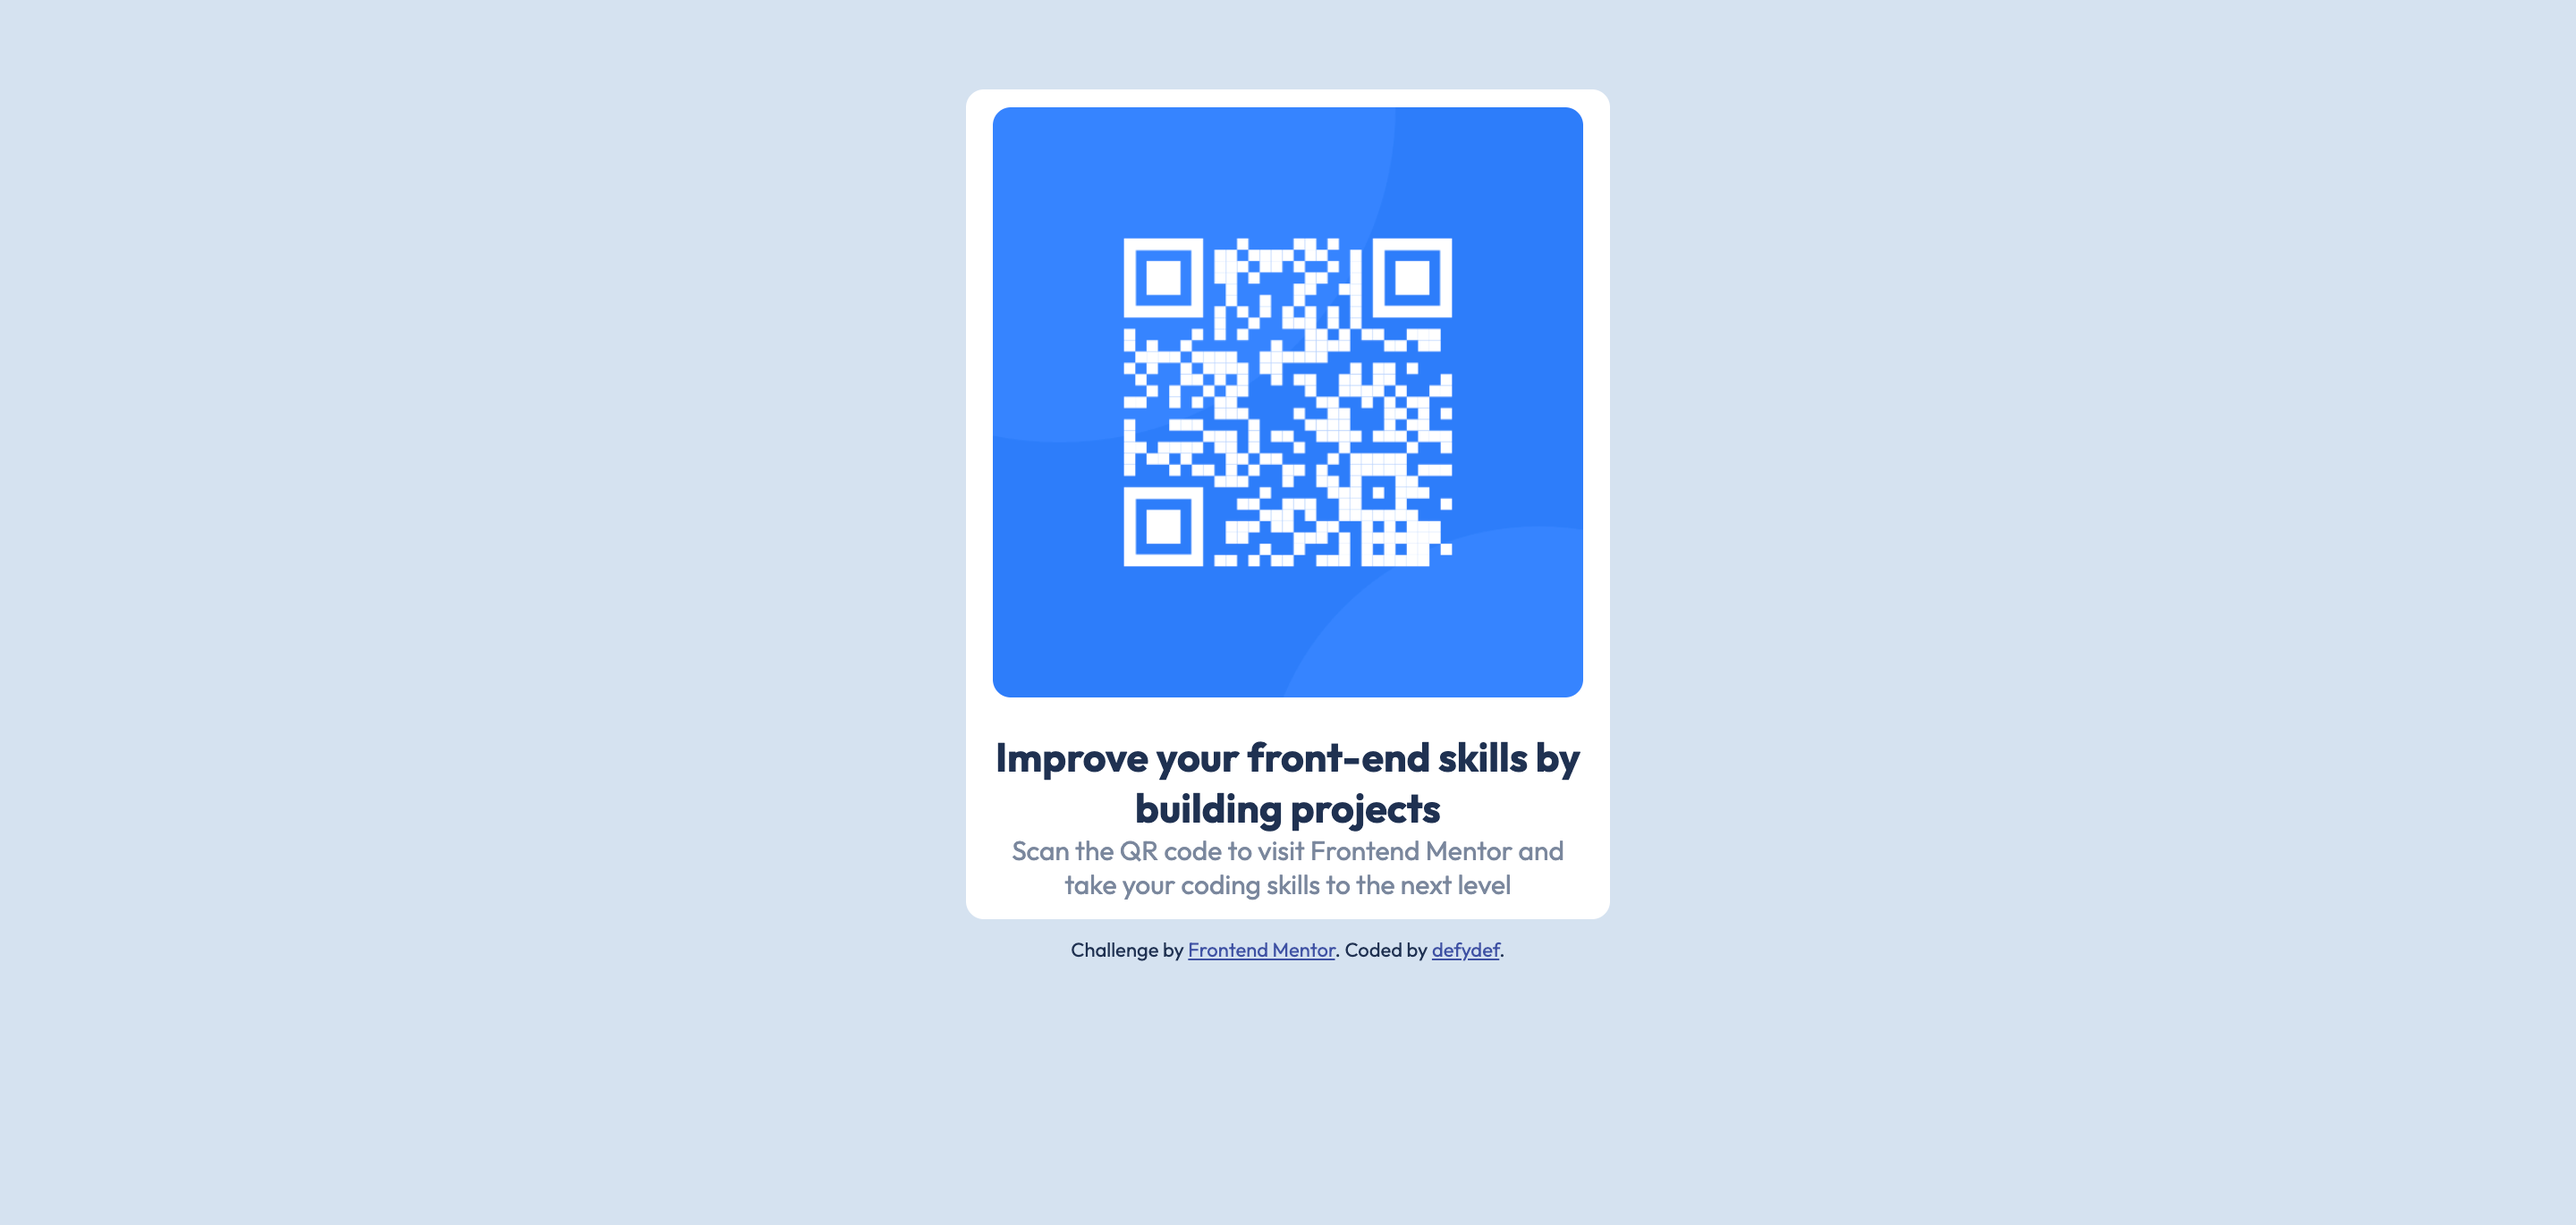
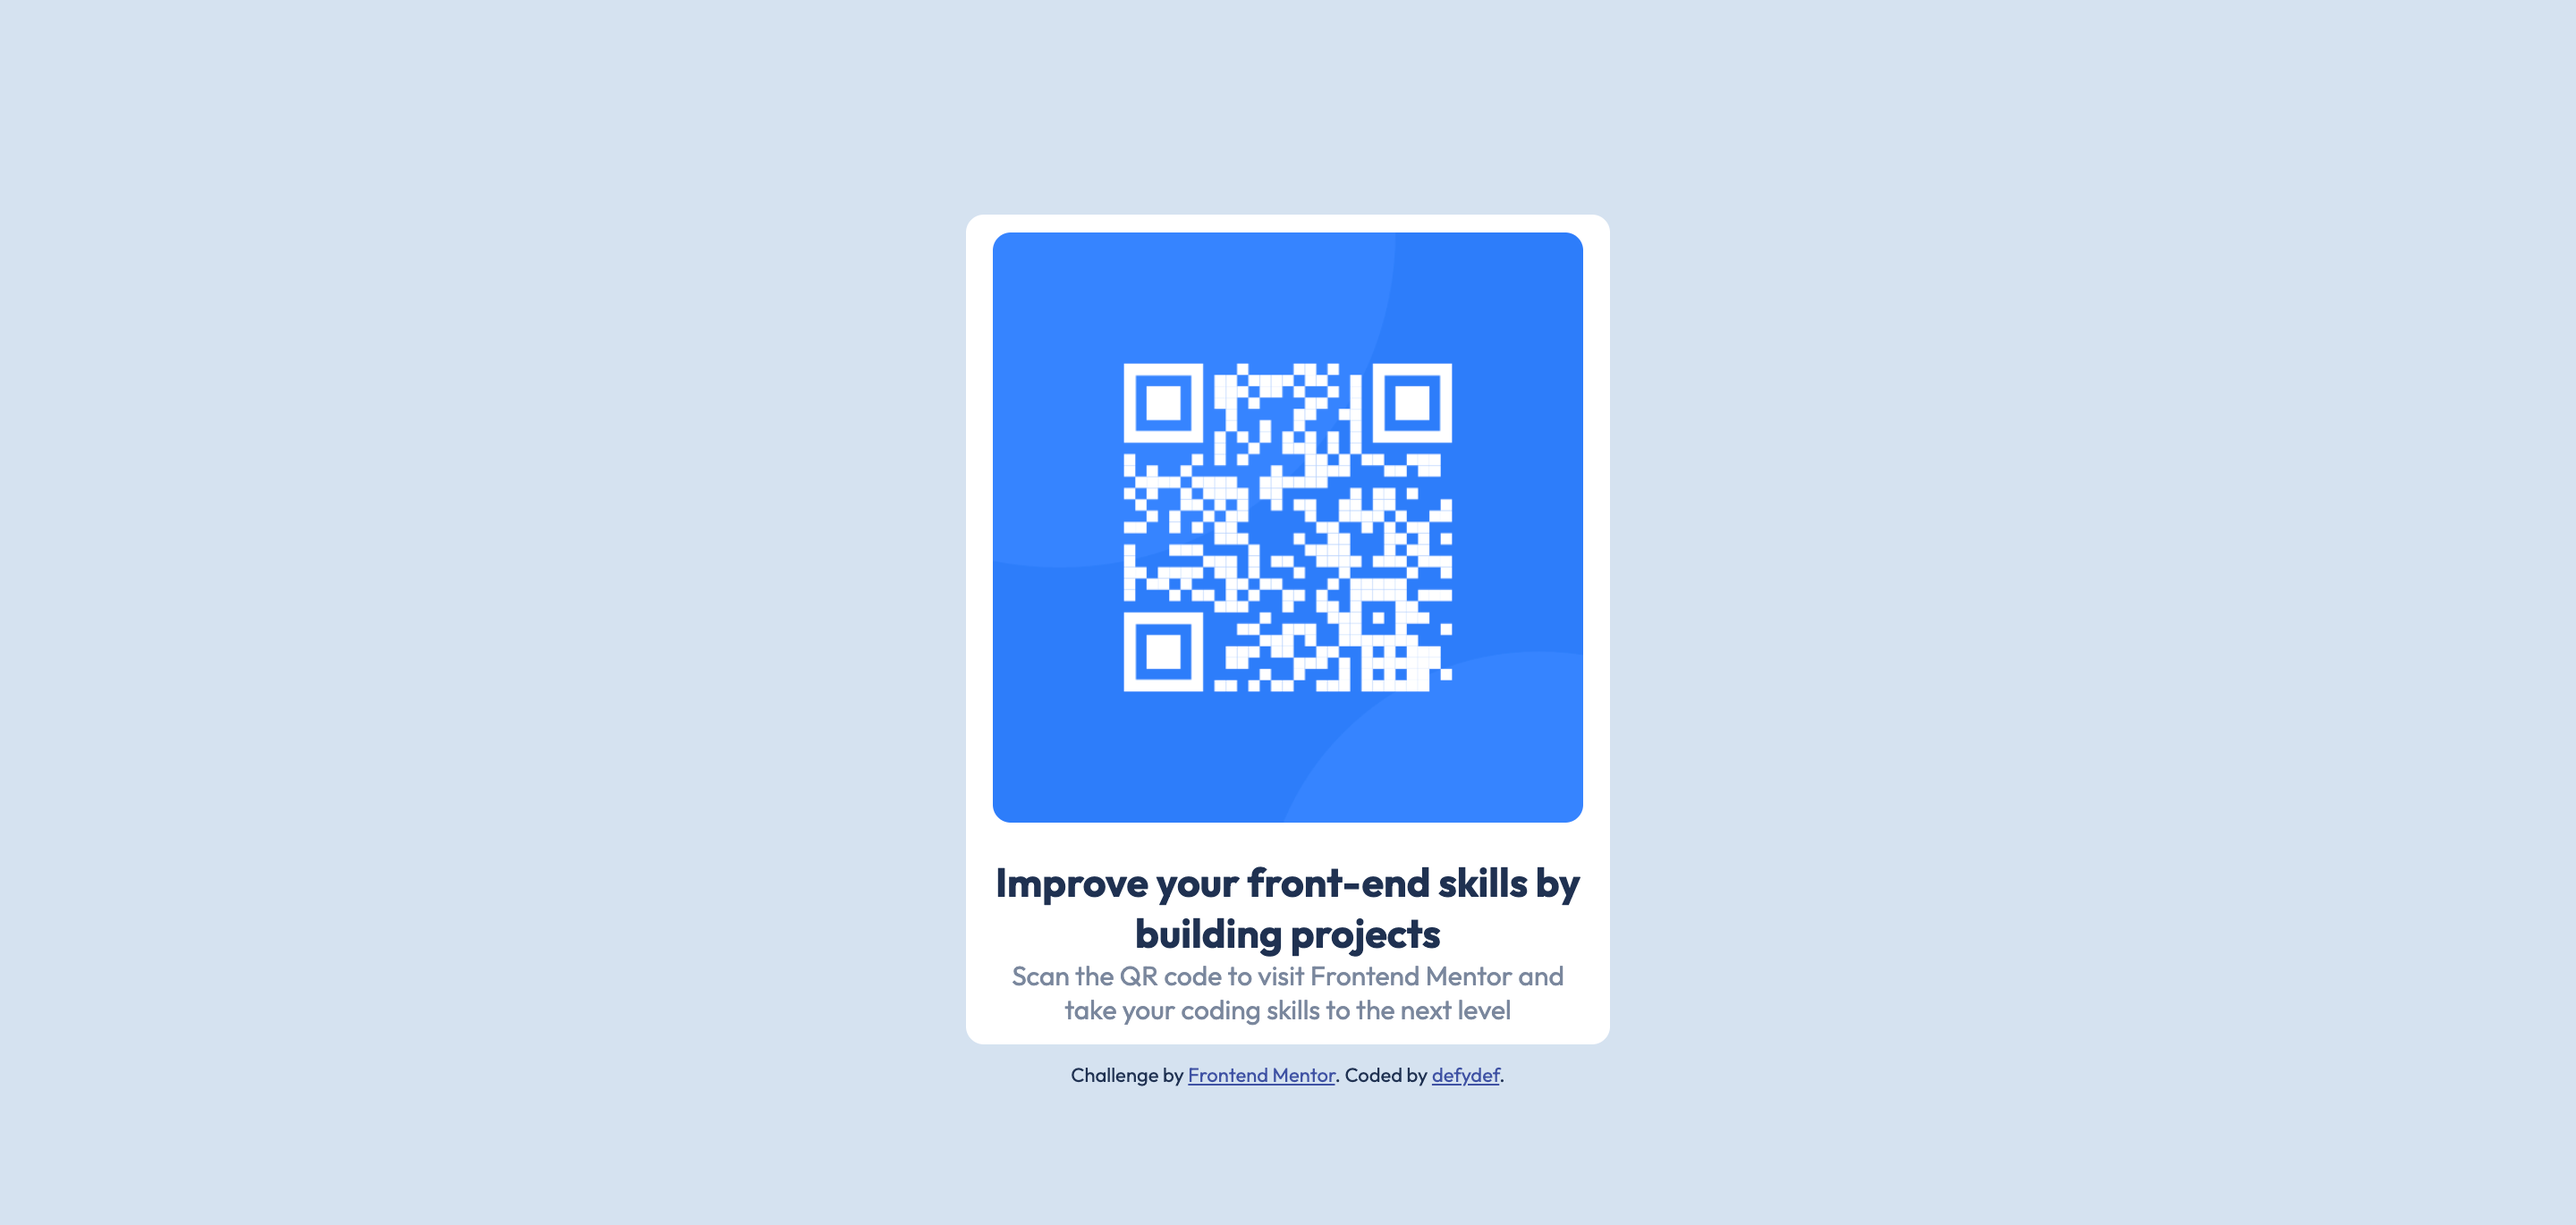
add alt on img

Changed region(s): [[0.375, 0.0613, 0.625, 0.8891]]

diff --git a/index.html b/index.html
@@ -9,16 +9,22 @@
   <title>Frontend Mentor | QR code component</title>
 </head>
 <body>
-  <div class="card">
-    <div class="qr-image"><img src="images/image-qr-code.png" /></div>
-    <div class="text-container">
-      <h2>Improve your front-end skills by building projects</h2>
-      <p>Scan the QR code to visit Frontend Mentor and take your coding skills to the next level</p>
+  <header role="banner"></header>
+  <nav role="navigation"></nav>
+  <main role="main">
+    <div class="card">
+      <div class="qr-image"><img src="images/image-qr-code.png" alt="qr-code" /></div>
+      <div class="text-container">
+        <h2>Improve your front-end skills by building projects</h2>
+        <p>Scan the QR code to visit Frontend Mentor and take your coding skills to the next level</p>
+      </div>
     </div>
-  </div>
-  <div class="attribution">
-    Challenge by <a href="https://www.frontendmentor.io?ref=challenge" target="_blank">Frontend Mentor</a>. 
-    Coded by <a href="https://github.com/defydef">defydef</a>.
-  </div>
+  </main>
+  <footer role="contentinfo">
+    <div class="attribution">
+      Challenge by <a href="https://www.frontendmentor.io?ref=challenge" target="_blank">Frontend Mentor</a>. 
+      Coded by <a href="https://github.com/defydef">defydef</a>.
+    </div>
+</footer>
 </body>
 </html>

diff --git a/main.css b/main.css
@@ -48,7 +48,7 @@ body {
     width: 360px;
     background: var(--white);
     text-align: center;
-    margin: 50px auto 10px auto;
+    margin: 120px auto 10px auto;
     padding: 10px;
 }
 .text-container {
